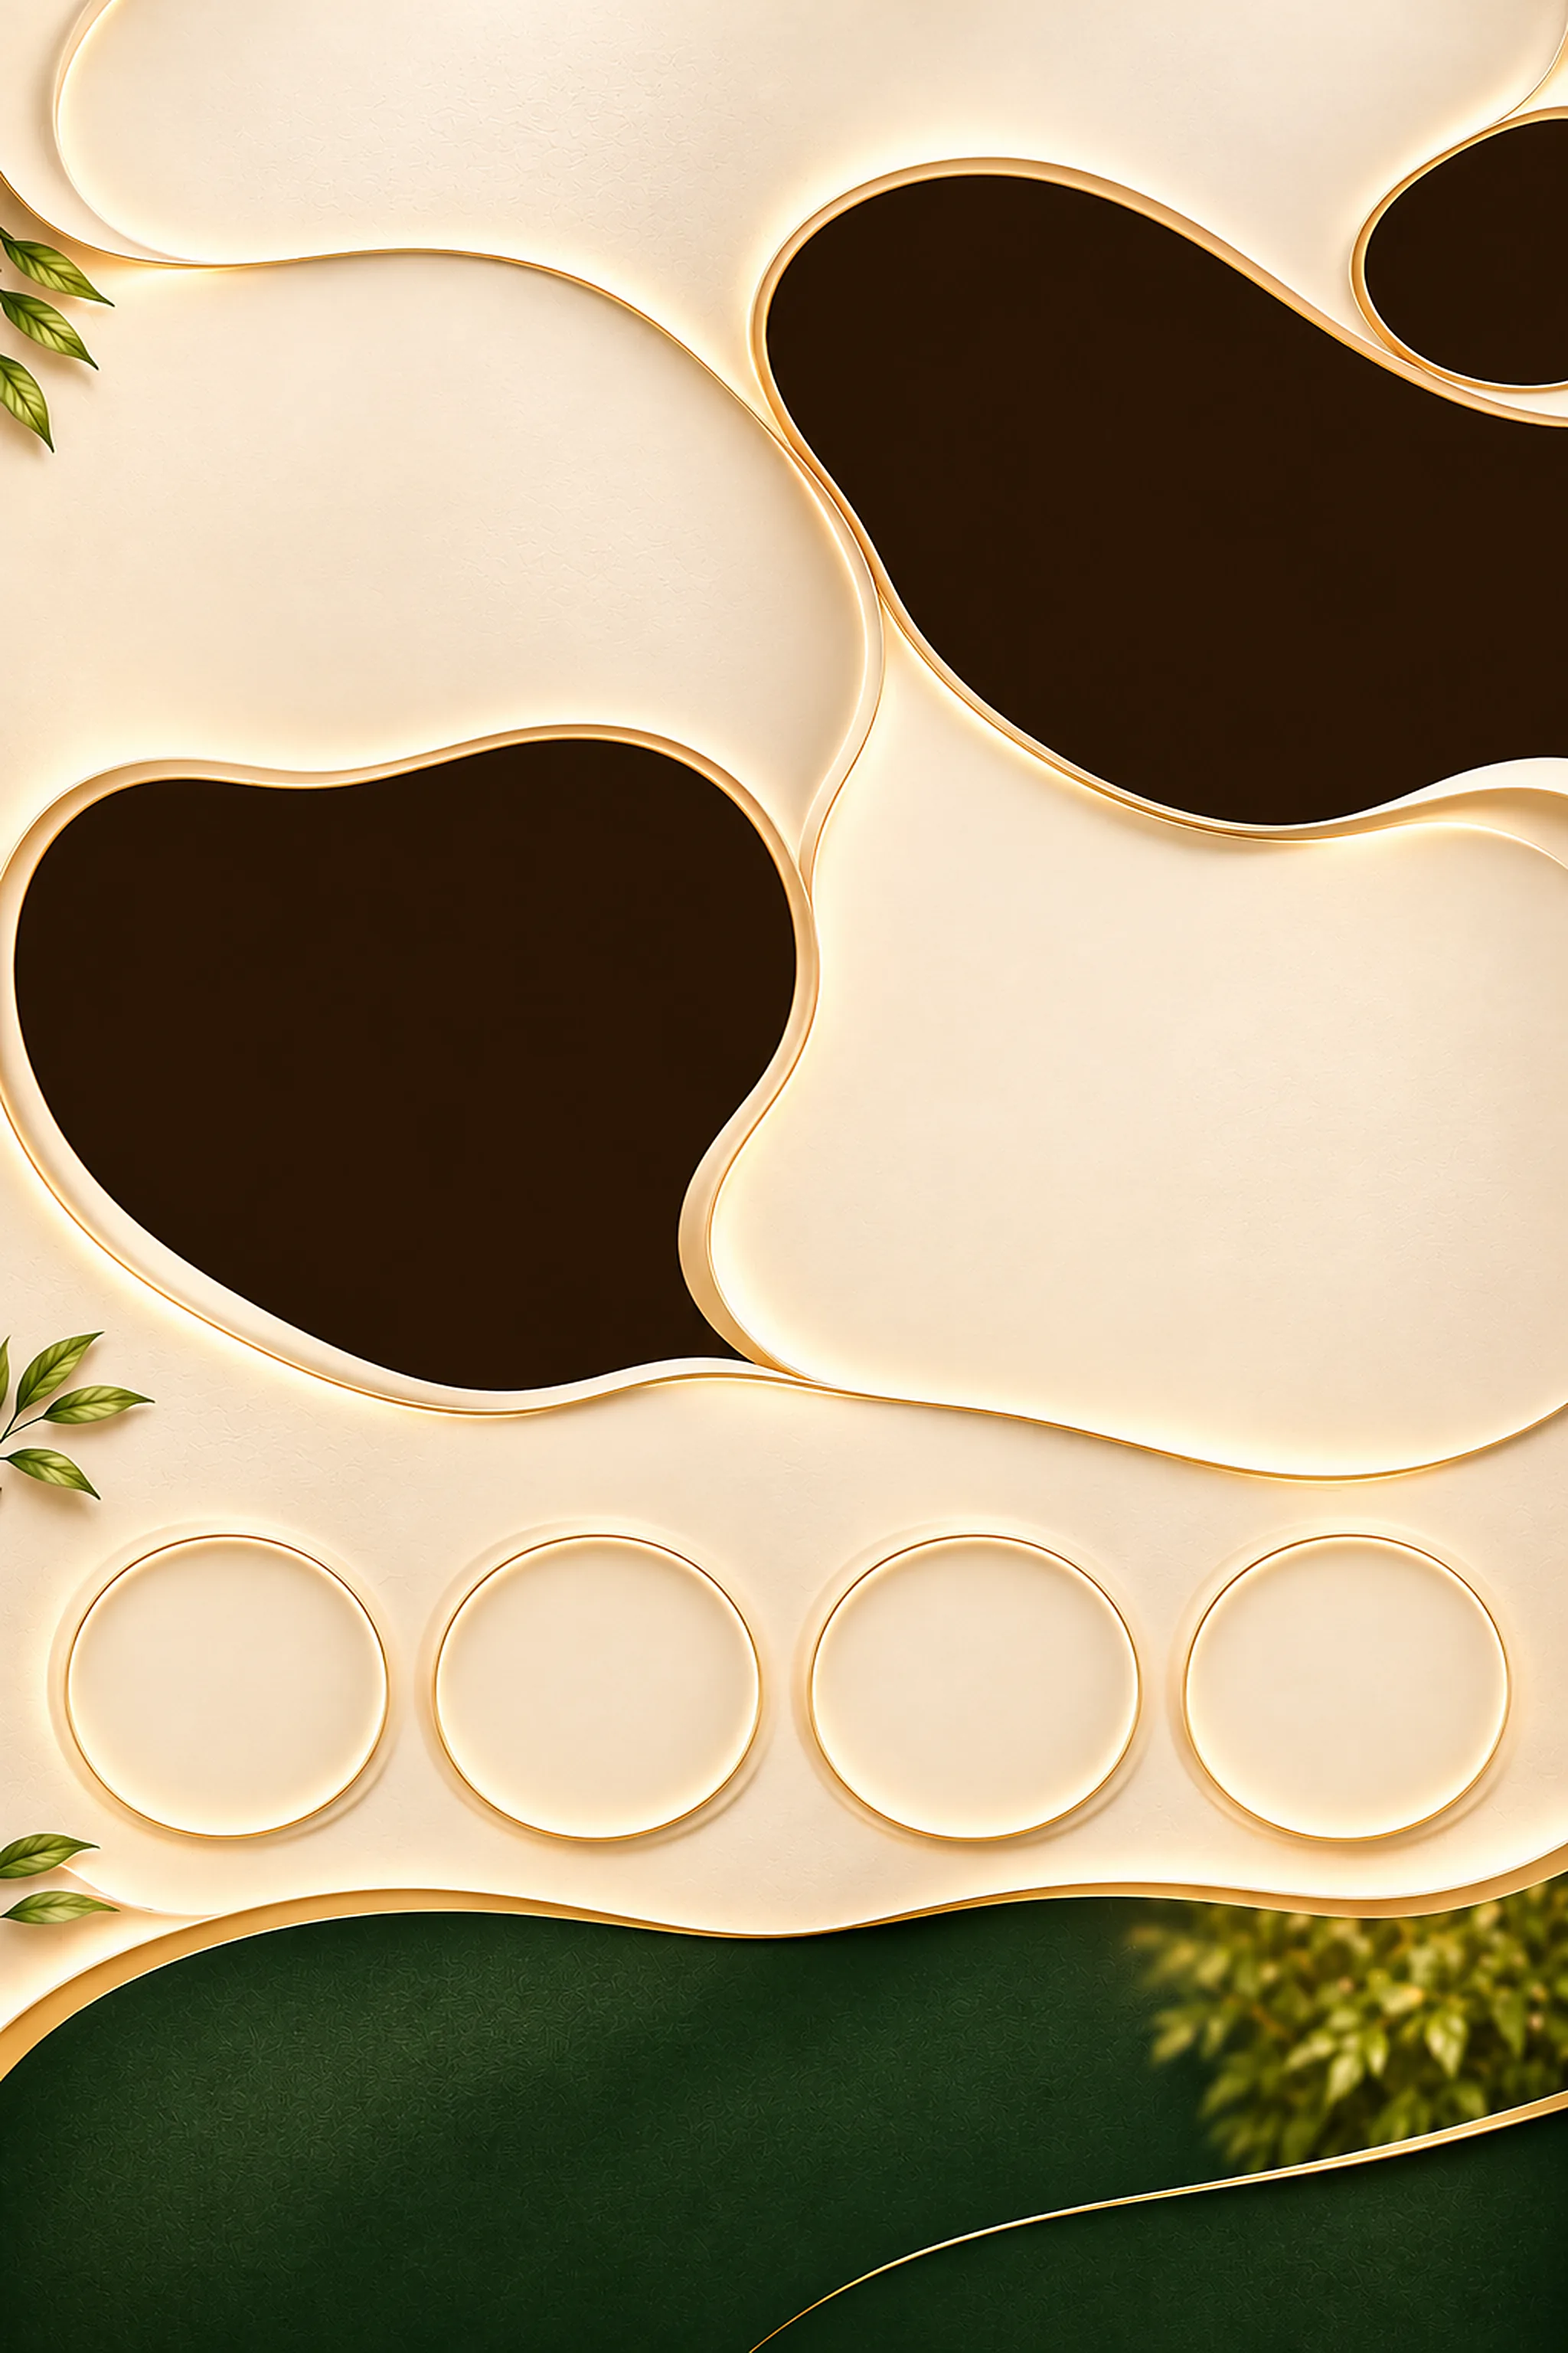
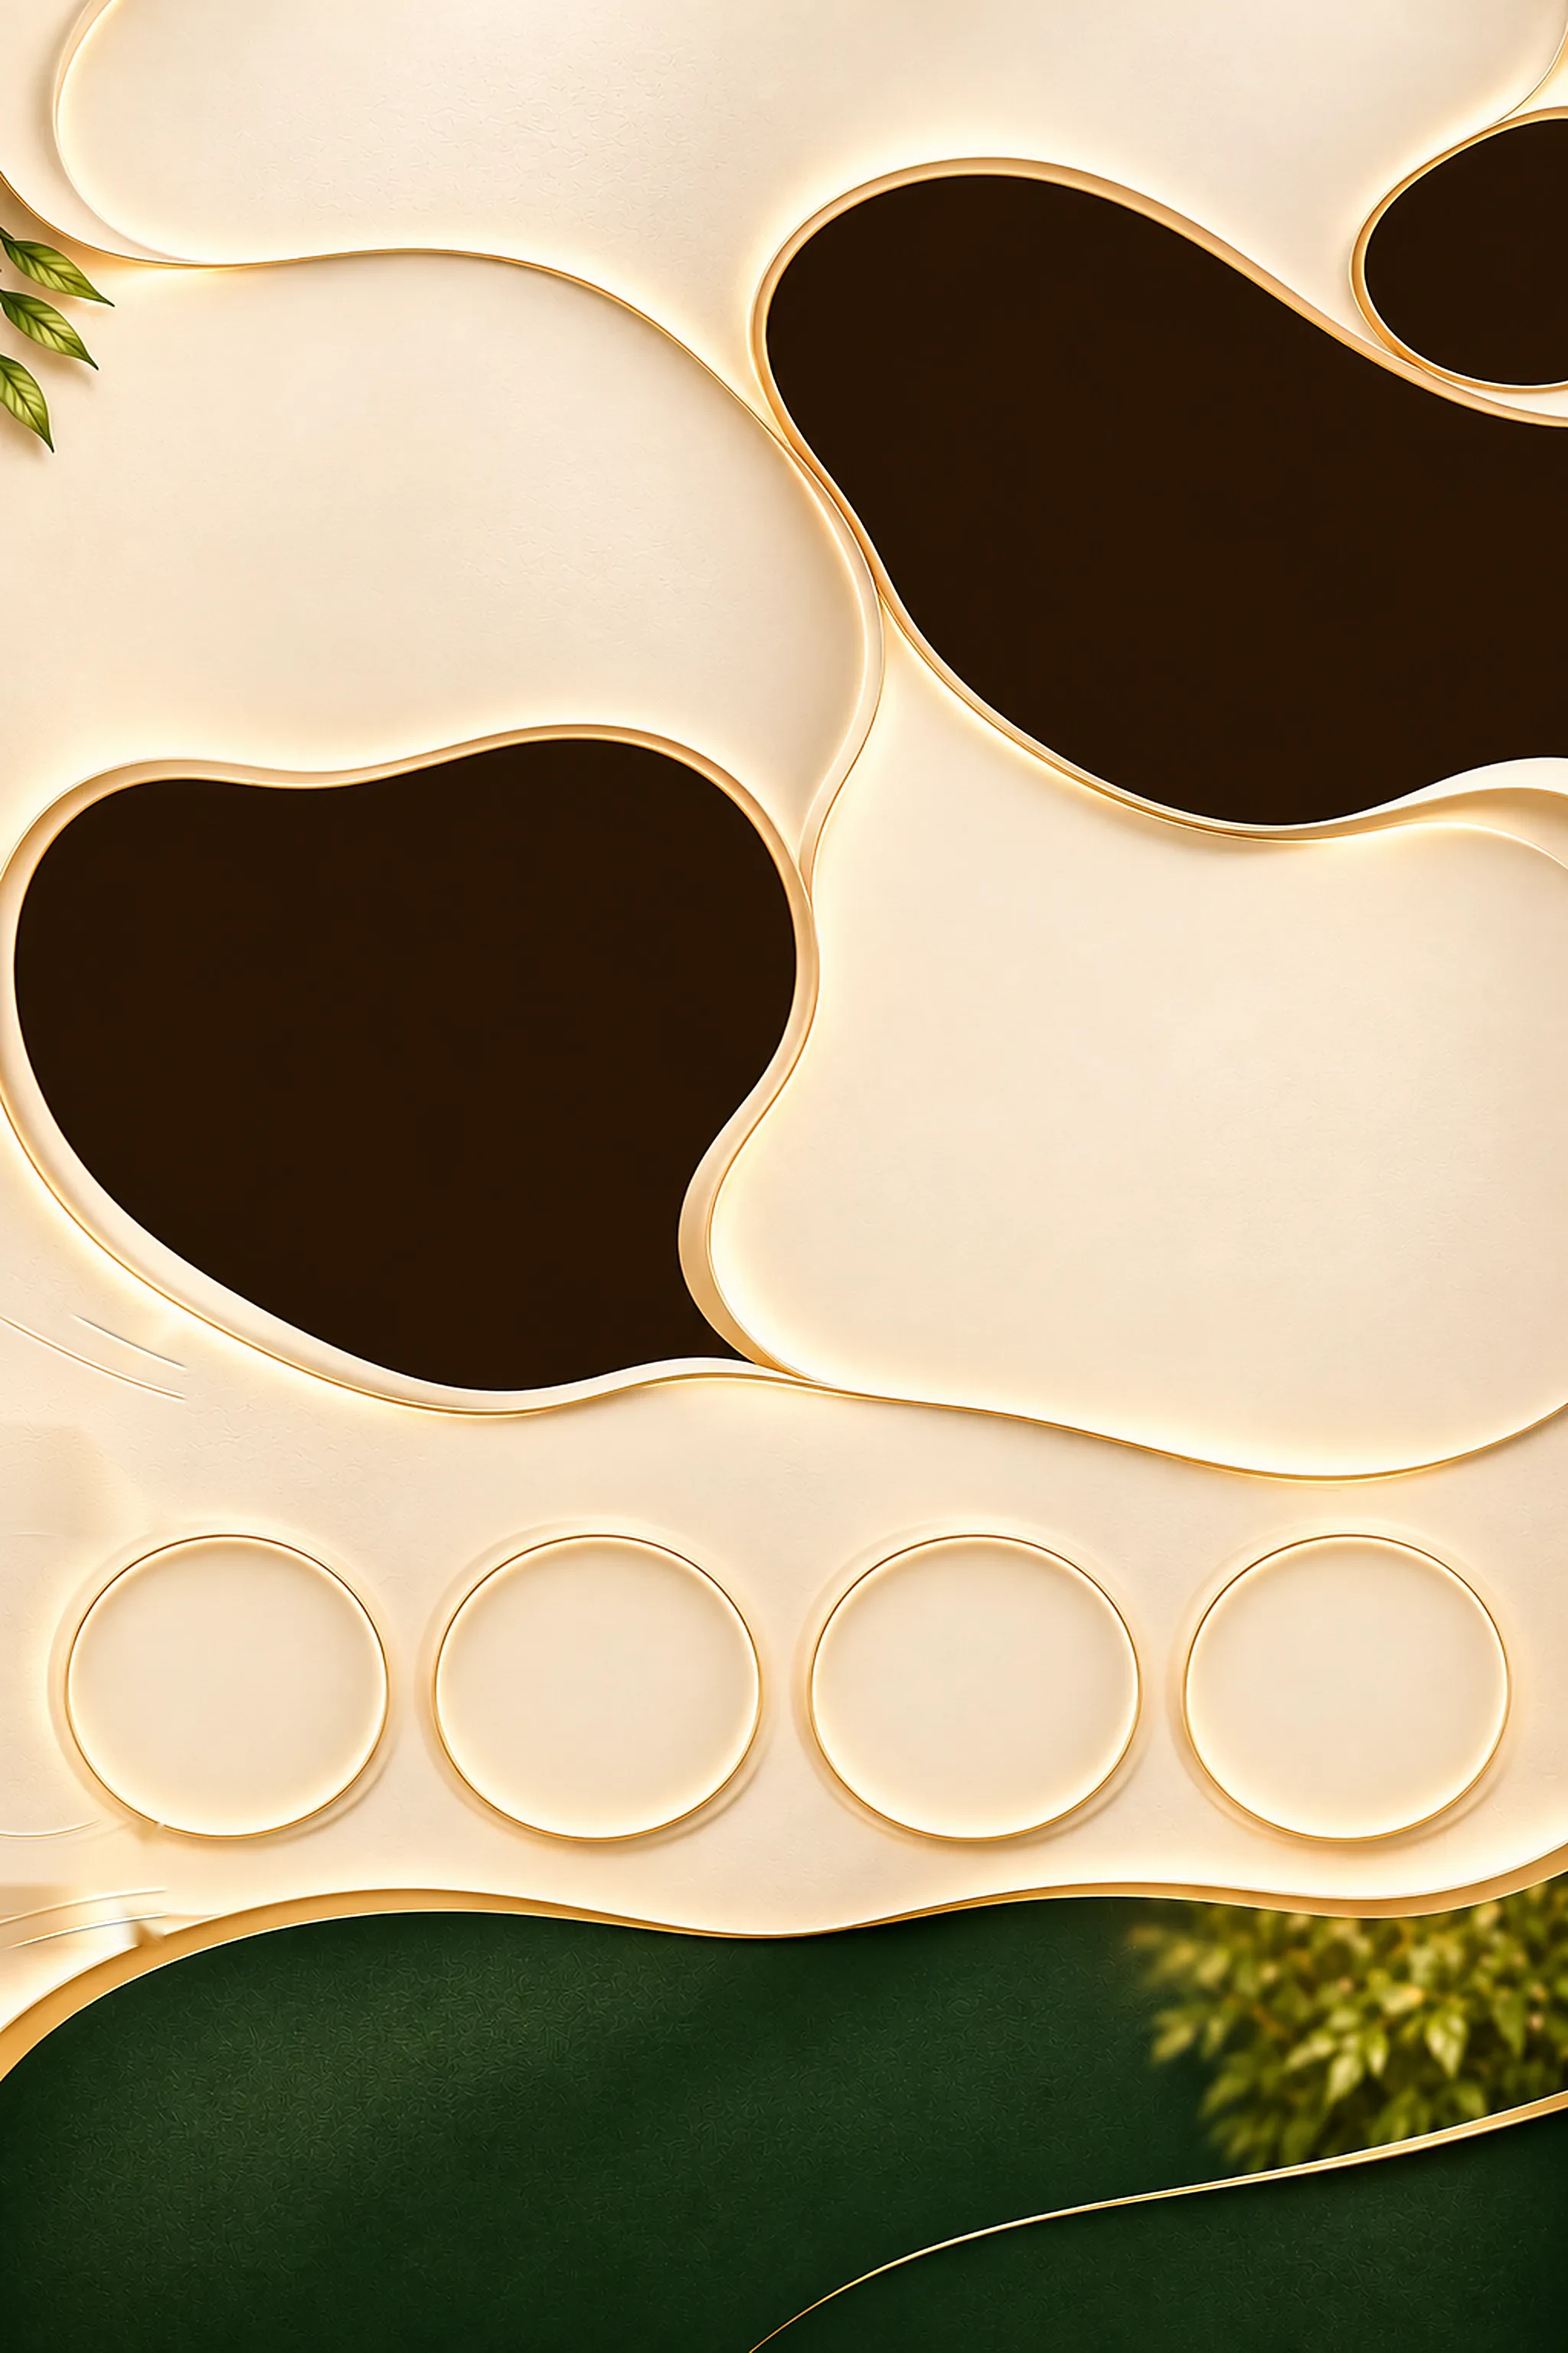
STORY-fix-2: video fills dining frame <=820px, business card removed, values circles + mascot motion, hero image srcset

Changed region(s): [[0.0, 0.5625, 0.125, 0.6562], [0.0, 0.7812, 0.0938, 0.8438]]

diff --git a/src/scripts/story-values.ts b/src/scripts/story-values.ts
@@ -1,0 +1,21 @@
+// Story page: mascot greeting + values pop. Pure class toggles; every animation is CSS (transform/opacity only) in story.astro.
+// Plays once per page visit: .is-in is added on first view and the observer is dropped. The mascot's idle float is paused while it is off screen (.is-off).
+const once = (el: Element | null, margin: string, threshold: number, fn: () => void) => {
+  if (!el) return;
+  const io = new IntersectionObserver((es) => {
+    if (es.some((e) => e.isIntersecting)) { io.disconnect(); fn(); }
+  }, { rootMargin: margin, threshold });
+  io.observe(el);
+};
+const mascot = document.querySelector<HTMLElement>('[data-st-mascot]');
+once(mascot, '0px 0px -8% 0px', 0.35, () => {
+  mascot!.classList.add('is-in');
+  const live = new IntersectionObserver((es) => {
+    es.forEach((e) => mascot!.classList.toggle('is-off', !e.isIntersecting));
+  }, { threshold: 0 });
+  live.observe(mascot!);
+});
+const values = document.querySelector<HTMLElement>('[data-st-values]');
+once(values, '0px 0px -10% 0px', 0.2, () => values!.classList.add('is-in'));
+// iOS only fires :active (the tap lift) when something listens for touch
+document.addEventListener('touchstart', () => {}, { passive: true });

diff --git a/public/js/story-hero.js b/public/js/story-hero.js
@@ -11,7 +11,7 @@
   if (matchMedia('(prefers-reduced-motion: reduce)').matches || c.saveData || /(^|-)[23]g$/.test(c.effectiveType || '')) return;
 
   var ready = false, items = vids.map(function (v) {
-    var fig = v.closest('.hy-win'), ctl = fig.parentNode.querySelector('[data-hv-ctl].' + (fig.classList.contains('hy-m') ? 'hy-m' : 'hy-d'));  // the controls layer of the same view
+    var fig = v.closest('.hy-win'), ctl = (v.dataset.hvk && fig.parentNode.querySelector('[data-hv-ctl][data-hvk="' + v.dataset.hvk + '"]')) || fig.parentNode.querySelector('[data-hv-ctl].' + (fig.classList.contains('hy-m') ? 'hy-m' : 'hy-d'));  // the controls layer of the same window (hvk = view-windowIndex)
     return { v: v, ctl: ctl, inView: false, loaded: false };
   });
 
